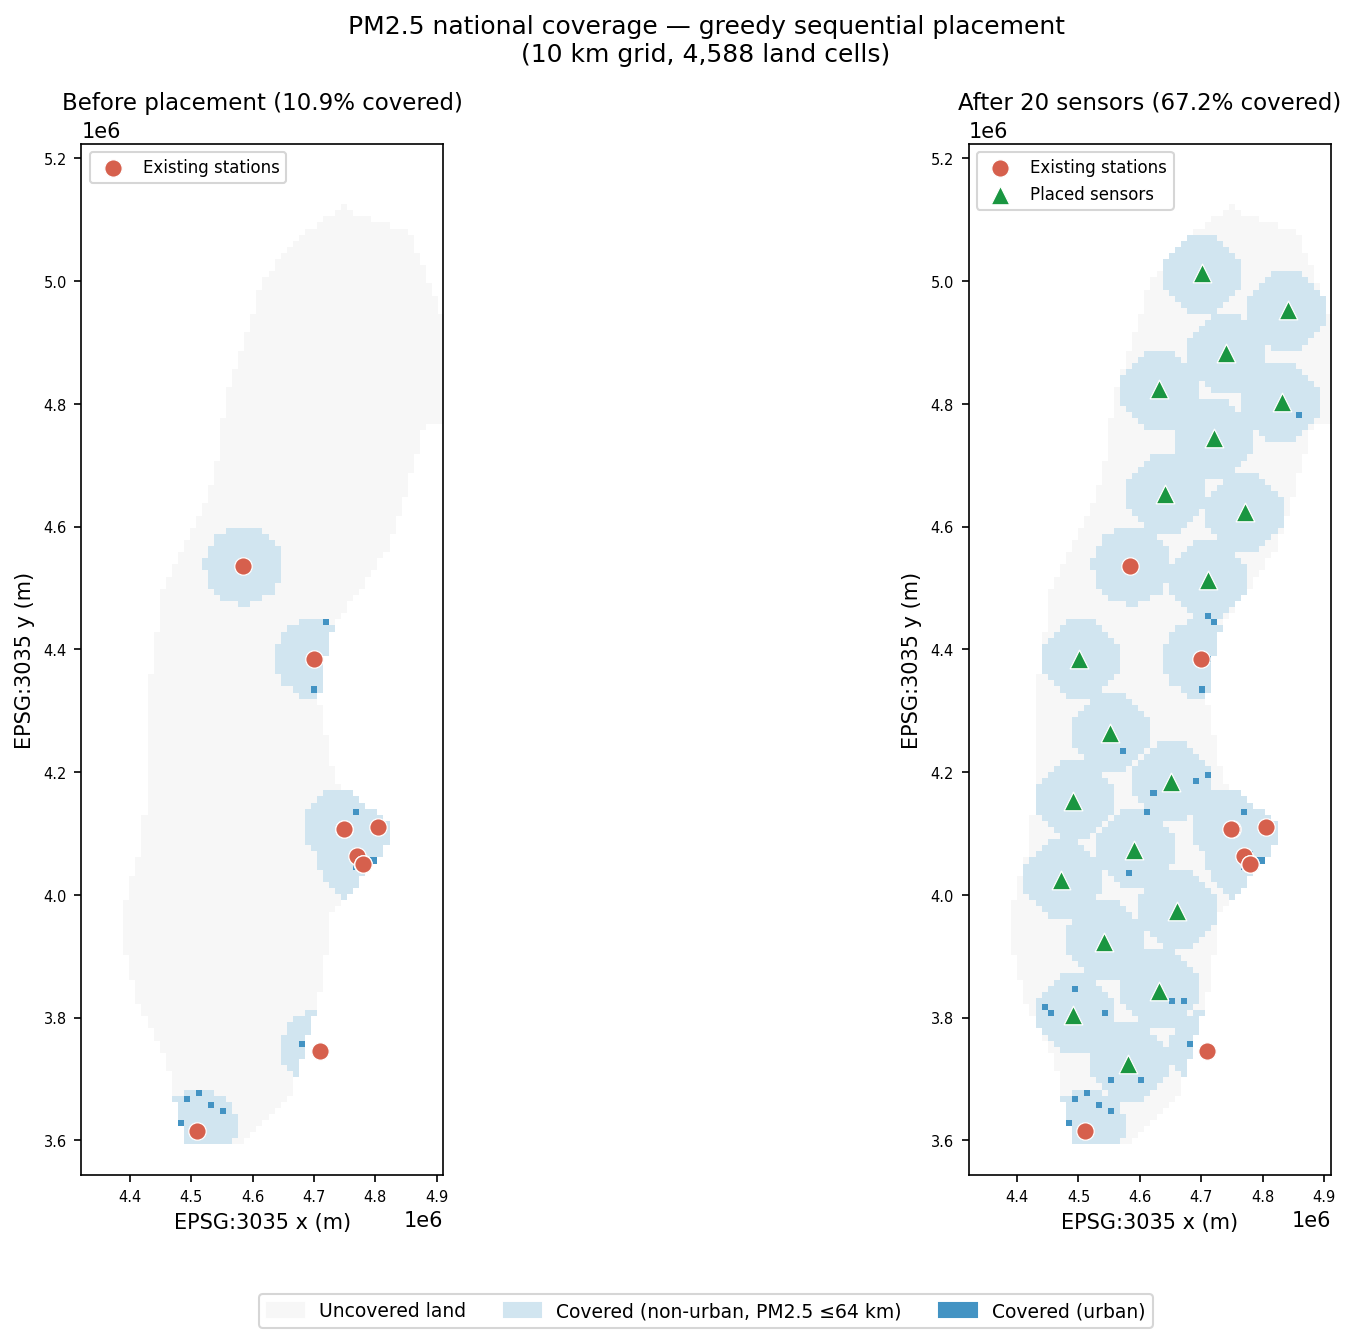
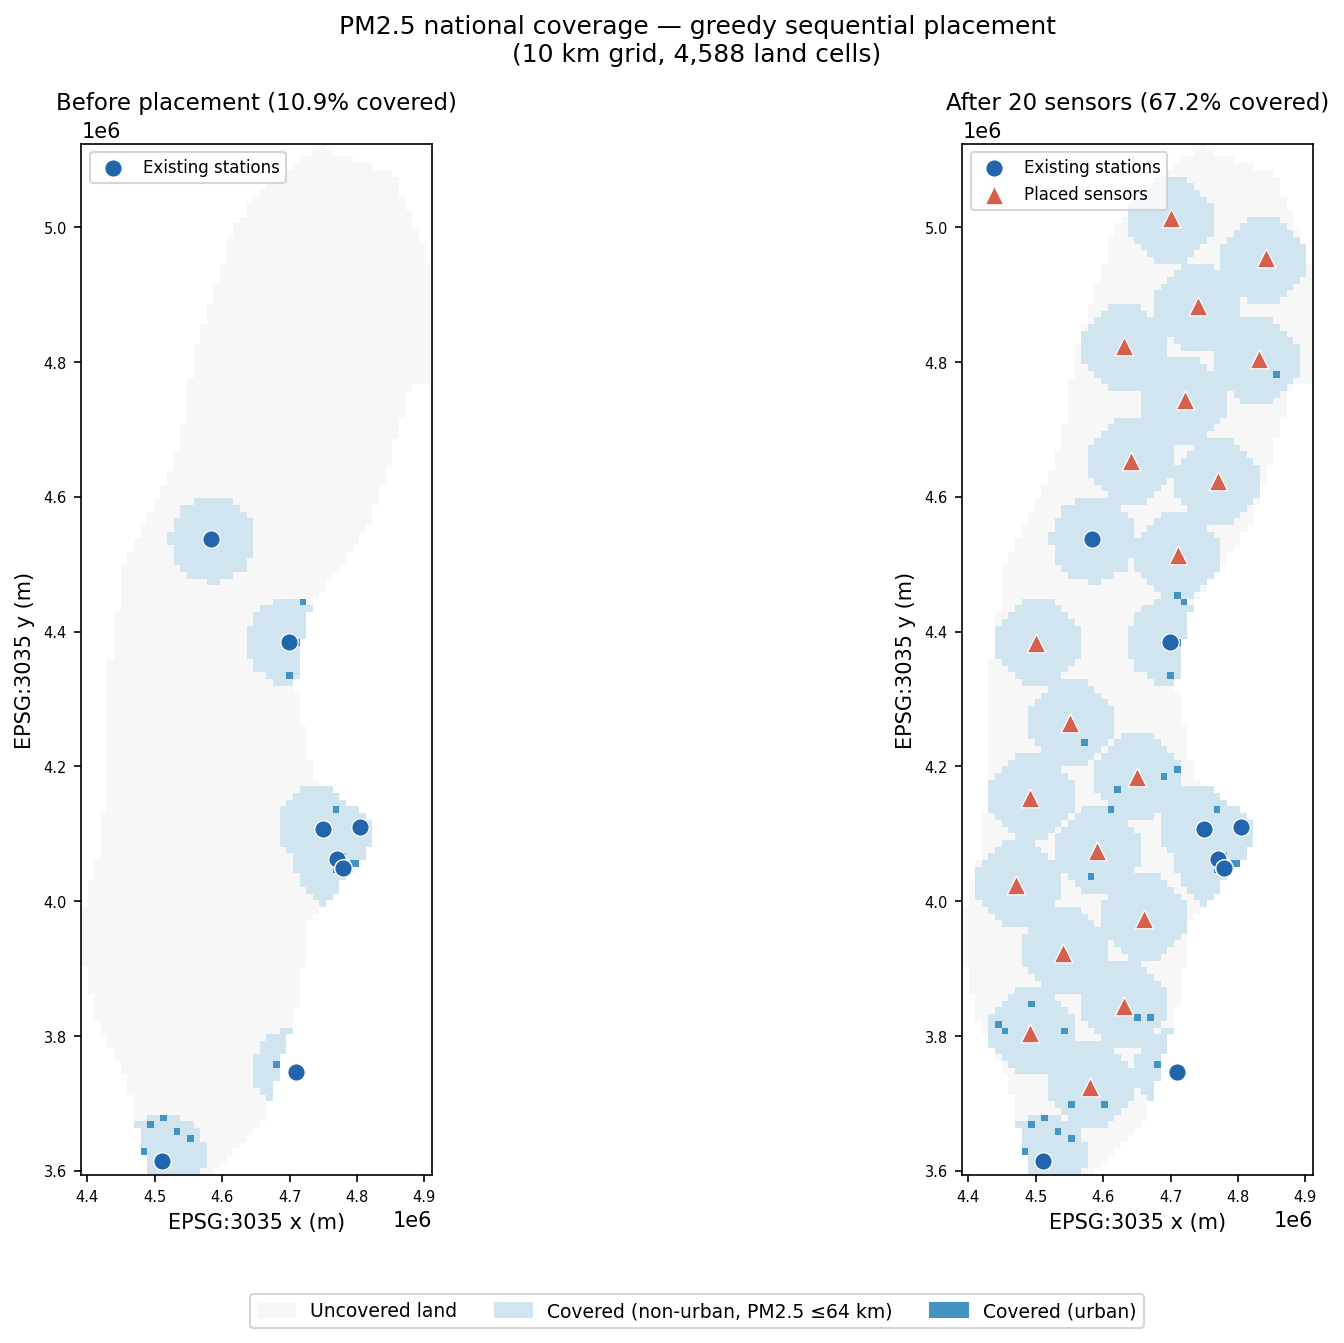
Unify existing/placed sensor colors across all four Section 7.3 figures
fig_coverage_before_after.png and fig_no2_coverage_before_after.png
used red circles for existing stations and green triangles for placed
sensors, while fig_placement_map.png and fig_no2_placement_map.png
used blue circles and red triangles for the same two categories. Same
20 sensors, same subsection, contradictory legend colors. Regenerated
the two coverage before/after figures to match the distance-surface
figures' scheme (existing = blue circles, placed = red triangles),
rebuilt from the existing coverage_grid.csv without re-running the
DEM/CORINE raster sampling. No thesis.tex text changes needed.

diff --git a/data/phase7_fix_coverage_colors.py b/data/phase7_fix_coverage_colors.py
@@ -1,0 +1,131 @@
+"""Regenerate the PM2.5 and NO2 before/after coverage figures with a colour
+scheme unified against the distance-surface figures (existing stations =
+blue circles, placed/recommended sensors = red triangles), fixing the
+inconsistency where the coverage-map figures previously used red=existing,
+green=placed while the distance-surface figures used blue=existing,
+red=placed. Rebuilt from the already-saved coverage_grid.csv and
+placement_coordinates.csv; no DEM/CORINE re-sampling needed."""
+
+import sys
+import numpy as np
+import pandas as pd
+from pyproj import Transformer
+import matplotlib
+matplotlib.use('Agg')
+import matplotlib.pyplot as plt
+import matplotlib.colors as mcolors
+import matplotlib.patches as mpatches
+sys.stdout.reconfigure(encoding='utf-8')
+
+BASE        = "C:/Users/aziz_/Documents/mau-thesis"
+RESULTS_DIR = f"{BASE}/data/results"
+FIGURES_DIR = f"{BASE}/writing/images"
+STATIONS_PATH = f"{BASE}/data/raw/metobs/stations.csv"
+
+GRID_STEP_M = 10_000
+PM25_THRESH_KM = 64.0
+NO2_THRESH_KM  = 6.0
+
+PASSING = {"102", "8773", "8780", "8781", "18643", "20415", "32423",
+           "156417", "157992", "159404", "181993"}
+
+# Unified colours (matches the existing distance-surface figures)
+COLOR_EXISTING = '#2166ac'  # blue
+COLOR_PLACED   = '#d6604d'  # red/orange
+
+to_3035 = Transformer.from_crs("EPSG:4326", "EPSG:3035", always_xy=True)
+
+grid = pd.read_csv(f"{RESULTS_DIR}/coverage_grid.csv")
+placement = pd.read_csv(f"{RESULTS_DIR}/placement_coordinates.csv")
+dsr = pd.read_csv(f"{RESULTS_DIR}/dsr_metrics.csv").set_index('metric')['value']
+
+stations = pd.read_csv(STATIONS_PATH, dtype={'code': str})
+stations['code'] = stations['code'].astype(str)
+passing_stns = stations[stations['code'].isin(PASSING)].copy()
+ex, ey = to_3035.transform(passing_stns['lon'].values, passing_stns['lat'].values)
+existing_xy = np.column_stack([ex, ey])
+placed_xy = placement[['x3035', 'y3035']].values
+n_placed = len(placement)
+
+x_vals = np.sort(grid['x3035'].unique())
+y_vals = np.sort(grid['y3035'].unique())
+x_min, y_min = x_vals.min(), y_vals.min()
+n_x = int(round((x_vals.max() - x_min) / GRID_STEP_M)) + 1
+n_y = int(round((y_vals.max() - y_min) / GRID_STEP_M)) + 1
+xi = np.round((grid['x3035'].values - x_min) / GRID_STEP_M).astype(int)
+yi = np.round((grid['y3035'].values - y_min) / GRID_STEP_M).astype(int)
+
+def to_grid_array(value_1d):
+    arr = np.full((n_y, n_x), np.nan)
+    arr[yi, xi] = value_1d
+    return arr
+
+extent = [x_min, x_min + (n_x - 1) * GRID_STEP_M,
+          y_min, y_min + (n_y - 1) * GRID_STEP_M]
+
+def station_scatter(ax, xy, marker='o', color='#1f78b4', size=60, label=None, zorder=5):
+    ax.scatter(xy[:, 0], xy[:, 1], s=size, c=color, marker=marker, zorder=zorder,
+               edgecolors='white', linewidths=0.6, label=label)
+
+def make_coverage_code(covered, urban):
+    code = np.zeros(len(covered), dtype=float)
+    code[covered & ~urban] = 1
+    code[covered & urban] = 2
+    return code
+
+cmap_coverage = mcolors.ListedColormap(['#f7f7f7', '#d1e5f0', '#4393c3'])
+urban = grid['urban'].values.astype(bool)
+
+def build_coverage_figure(before_col, after_col, thresh_km, pct_before, pct_after,
+                           pollutant_label, out_path, note=None):
+    before_code = make_coverage_code(grid[before_col].values.astype(bool), urban)
+    after_code  = make_coverage_code(grid[after_col].values.astype(bool), urban)
+    before_arr = to_grid_array(before_code)
+    after_arr  = to_grid_array(after_code)
+
+    fig, axes = plt.subplots(1, 2, figsize=(14, 9))
+    for ax, arr, title, panel in zip(
+            axes, [before_arr, after_arr],
+            [f'Before placement ({pct_before:.1f}% covered)',
+             f'After {n_placed} sensors ({pct_after:.1f}% covered)'],
+            ['before', 'after']):
+        ax.imshow(arr, extent=extent, origin='lower', aspect='equal',
+                  cmap=cmap_coverage, vmin=0, vmax=2, interpolation='nearest')
+        ax.set_title(title, fontsize=11)
+        ax.set_xlabel('EPSG:3035 x (m)')
+        ax.set_ylabel('EPSG:3035 y (m)')
+        ax.tick_params(axis='both', labelsize=7)
+        station_scatter(ax, existing_xy, marker='o', color=COLOR_EXISTING, size=70,
+                        label='Existing stations', zorder=6)
+        if panel == 'after':
+            station_scatter(ax, placed_xy, marker='^', color=COLOR_PLACED, size=80,
+                            label='Placed sensors', zorder=7)
+        ax.legend(fontsize=8, loc='upper left')
+
+    patches = [
+        mpatches.Patch(color='#f7f7f7', label='Uncovered land'),
+        mpatches.Patch(color='#d1e5f0', label=f'Covered (non-urban, {pollutant_label} ≤{thresh_km:.0f} km)'),
+        mpatches.Patch(color='#4393c3', label='Covered (urban)'),
+    ]
+    fig.legend(handles=patches, loc='lower center', ncol=3, fontsize=9, bbox_to_anchor=(0.5, 0.0))
+    title = f'{pollutant_label} national coverage — greedy sequential placement\n(10 km grid, {len(grid):,} land cells)'
+    if note:
+        title = f'{pollutant_label} national coverage under the PM2.5-optimised placement\n{note}'
+    fig.suptitle(title, fontsize=12)
+    plt.tight_layout(rect=[0, 0.06, 1, 1])
+    plt.savefig(out_path, dpi=150, bbox_inches='tight')
+    plt.close()
+    print(f"Saved: {out_path}")
+
+build_coverage_figure(
+    'pm25_covered_before', 'pm25_covered_after', PM25_THRESH_KM,
+    float(dsr['pm25_land_pct_before']), float(dsr['pm25_land_pct_after']),
+    'PM2.5', f"{FIGURES_DIR}/fig_coverage_before_after.png",
+)
+
+build_coverage_figure(
+    'no2_covered_before', 'no2_covered_after', NO2_THRESH_KM,
+    float(dsr['no2_land_pct_before']), float(dsr['no2_land_pct_after']),
+    'NO2', f"{FIGURES_DIR}/fig_no2_coverage_before_after.png",
+    note='(sensors were not placed to serve the NO2 threshold)',
+)
